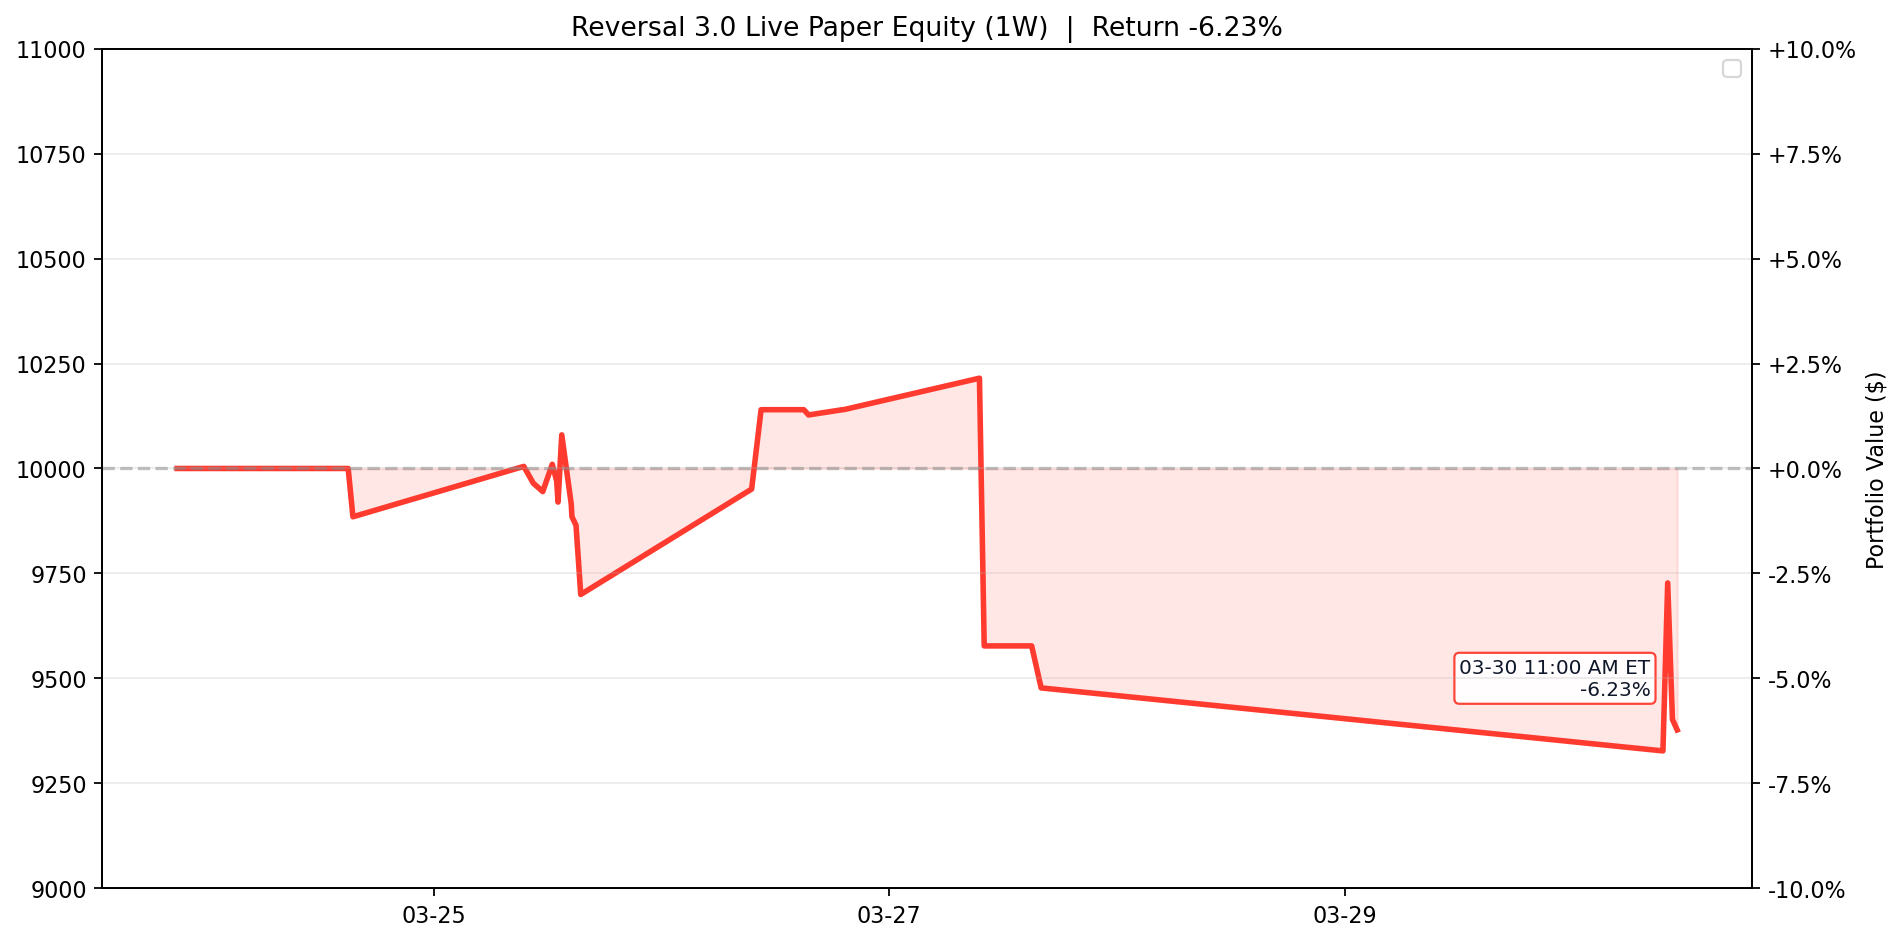
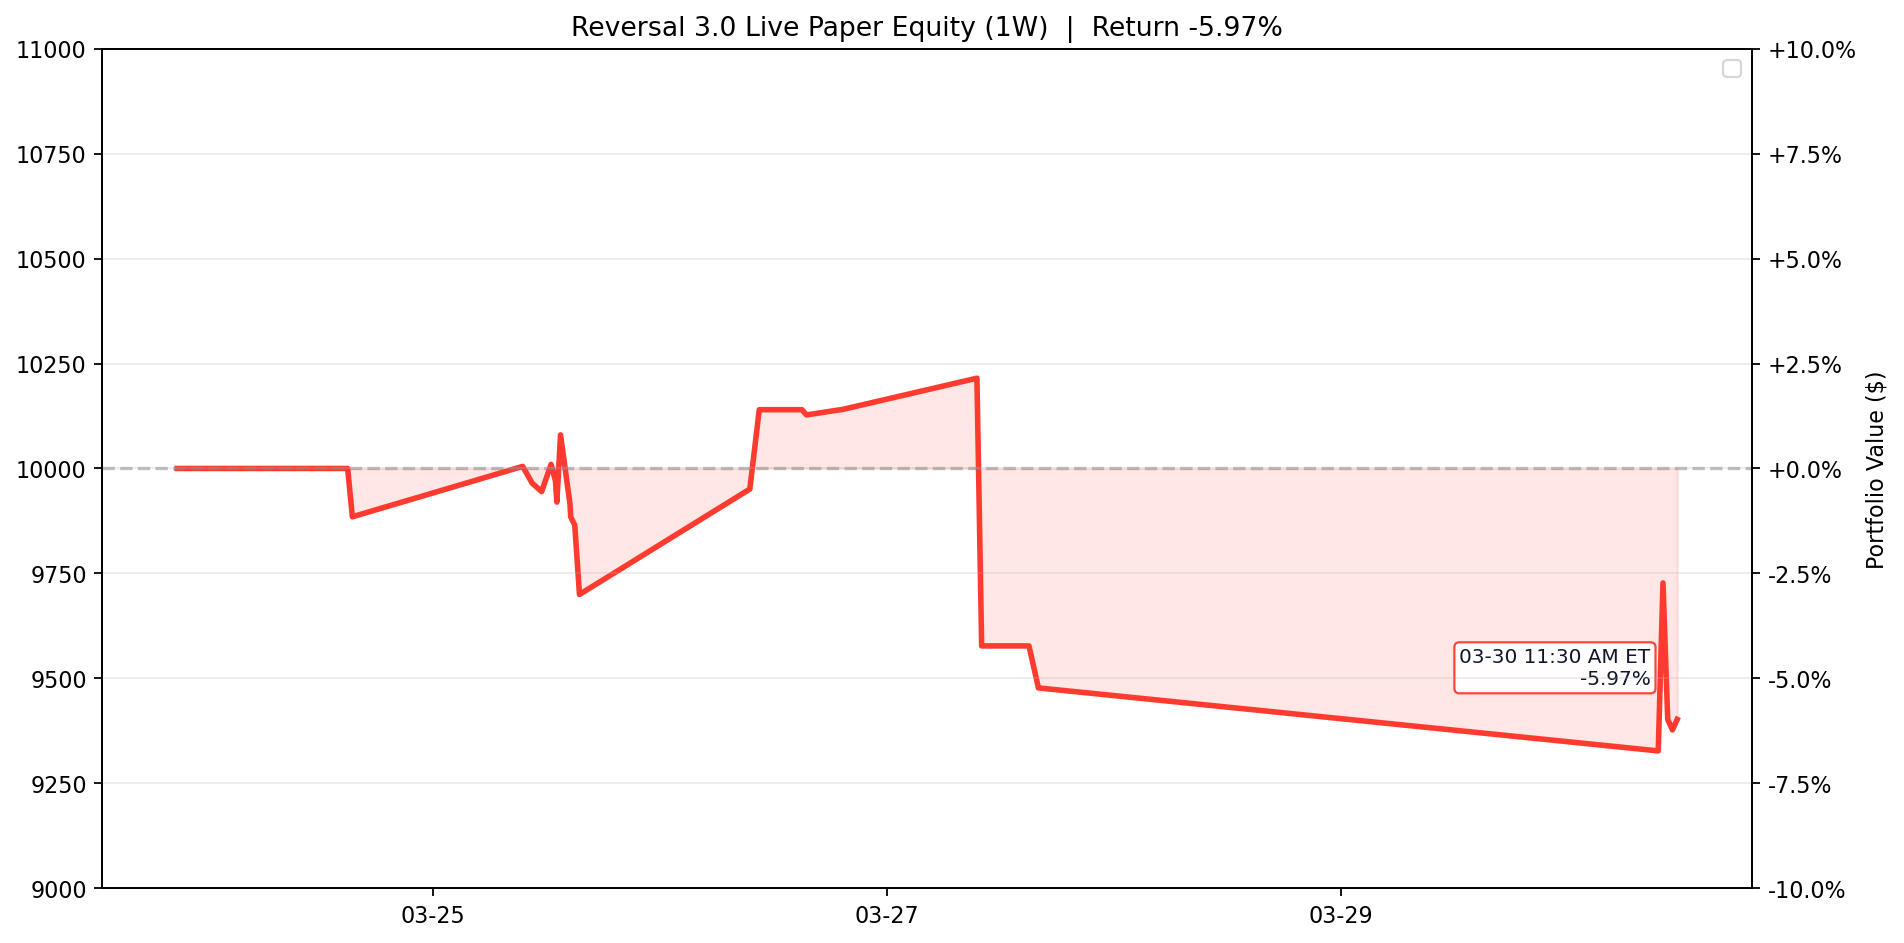
Update Reversal 3.0 live paper test 2026-03-30 11:30 ET

diff --git a/results/reversal_3_0_live/README.md b/results/reversal_3_0_live/README.md
@@ -1,7 +1,7 @@
 # Reversal 3.0 Live Paper Test
 
-Last updated (ET): `2026-03-30 11:00:01 EDT`
-Last processed slot: `manage_1100`
+Last updated (ET): `2026-03-30 11:30:03 EDT`
+Last processed slot: `manage_1130`
 
 ## Active Configuration
 
@@ -20,16 +20,16 @@ Last processed slot: `manage_1100`
 ## Portfolio Snapshot
 
 - Cash: `$4,977.50`
-- Equity: `$9,377.50`
+- Equity: `$9,402.50`
 - Realized PnL: `$-422.50`
-- Unrealized PnL: `$-200.00`
+- Unrealized PnL: `$-175.00`
 - Open positions: `1`
 
 ## Open Positions
 
 ```text
 ticker    contract_symbol entry_trade_date  business_days_held  entry_option_price  current_option_price  entry_spot  current_spot  unrealized_pnl  unrealized_return_pct  success_rate  matched_signals  current_drop_pct  entry_iv_pct  current_iv_pct  rolling_sigma_20d_pct
-   HON HON260501C00225000       2026-03-27                   1                 9.2                   8.8      223.64        224.71          -200.0                  -4.35         100.0               20              0.68         39.47           35.76                  24.88
+   HON HON260501C00225000       2026-03-27                   1                 9.2                  8.85      223.64        224.17          -175.0                   -3.8         100.0               20              0.68         39.47           37.17                  24.88
 ```
 
 ## Today's Closed Trades (2026-03-30)
@@ -40,18 +40,18 @@ _None_
 
 ```text
 ticker  success_rate_%  matched_signals  current_drop_%  target_rebound_$  target_price  rolling_sigma_20d_%  call_candidate
-  INTC           96.30               27            2.31              0.70         42.83                64.48            True
-   WDC           93.33               15            4.77              9.19        271.40                77.70            True
-  AVGO           93.10               29            1.42              3.00        299.40                39.28            True
-  PLTR           90.24               41            0.51              0.51        142.84                49.53            True
-   STX           84.62               13            4.58             12.19        374.85                75.41            True
-   BKR           83.33               24            0.95              0.42         63.04                40.65            True
-  AMAT           83.33               12            2.97              7.00        334.17                54.89            True
-   TXN           81.48               27            1.09              1.45        189.71                29.79            True
-   ADI           81.48               27            0.88              1.90        306.62                32.30            True
-  ASML           81.25               16            2.67             24.33       1292.04                47.46            True
-   APP           81.08               37            1.28              3.42        379.73                72.26            True
-  MCHP           80.77               26            1.63              0.71         61.70                36.06            True
+  INTC           93.75               16            3.84              1.16         42.63                64.48            True
+  AVGO           92.31               26            1.69              3.56        299.15                39.28            True
+  ASML           92.31               13            3.02             27.57       1290.66                47.46            True
+  PLTR           90.00               40            0.79              0.79        142.72                49.53            True
+   AMD           83.33               36            0.97              1.37        201.40                56.13            True
+  KLAC           83.33               12            3.40             34.35       1428.49                53.64            True
+   APP           81.08               37            1.44              3.84        379.55                72.26            True
+  AMAT           80.00               10            3.89              9.19        333.23                54.89            True
+  FANG          100.00               30            0.34              0.48        201.63                24.78           False
+  ROST           94.44               36            0.33              0.48        211.48                33.28           False
+  NVDA           92.68               41            0.33              0.38        167.36                32.71           False
+  PCAR           91.49               47            0.08              0.06        112.72                24.32           False
 ```
 
 ## Recent Events

diff --git a/README.md b/README.md
@@ -3,15 +3,15 @@
 <!-- reversal-3.0-live:start -->
 ## Reversal 3.0 Live Paper Test
 
-- Last updated (ET): `2026-03-30 11:00:01 EDT`
-- Equity: `$9,377.50` | Realized: `$-422.50` | Unrealized: `$-200.00` | Open positions: `1`
+- Last updated (ET): `2026-03-30 11:30:03 EDT`
+- Equity: `$9,402.50` | Realized: `$-422.50` | Unrealized: `$-175.00` | Open positions: `1`
 - Today closed trades: `0`
-- Current slot: `manage_1100`
+- Current slot: `manage_1130`
 - Chart: trailing `1W` with ET timestamps
 
 ```text
 ticker    contract_symbol  current_option_price  unrealized_pnl  unrealized_return_pct  business_days_held
-   HON HON260501C00225000                   8.8          -200.0                  -4.35                   1
+   HON HON260501C00225000                  8.85          -175.0                   -3.8                   1
 ```
 
 ![Reversal 3.0 Live Equity 1W](assets/reversal_3_0_live_equity.png)
